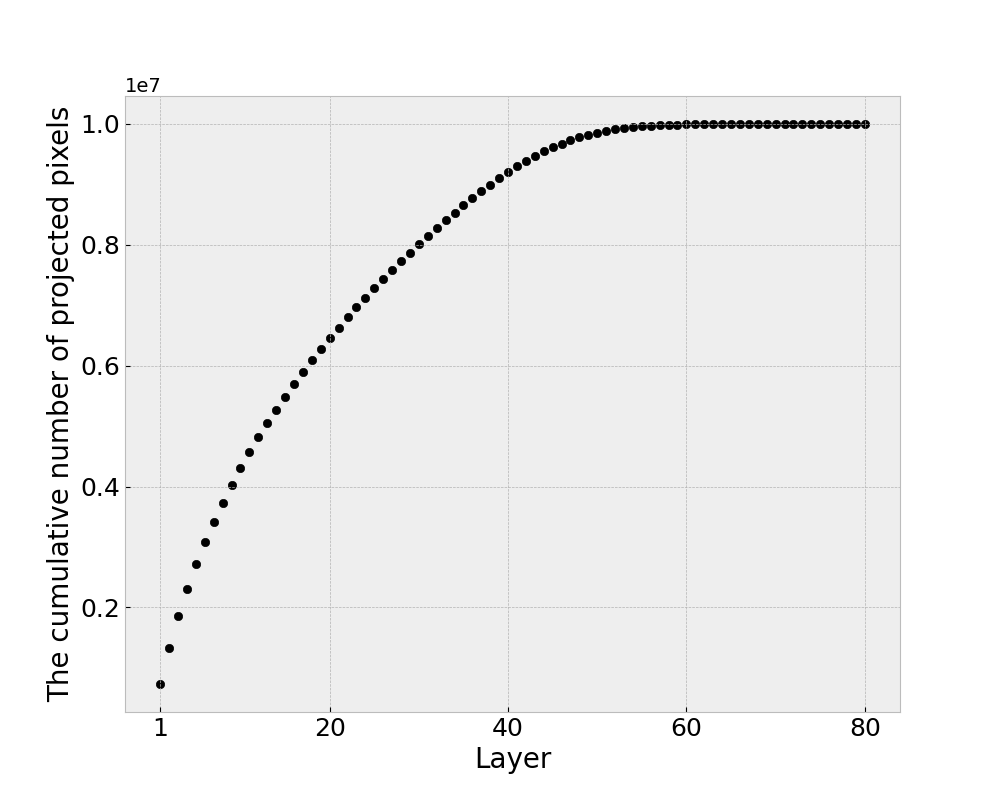
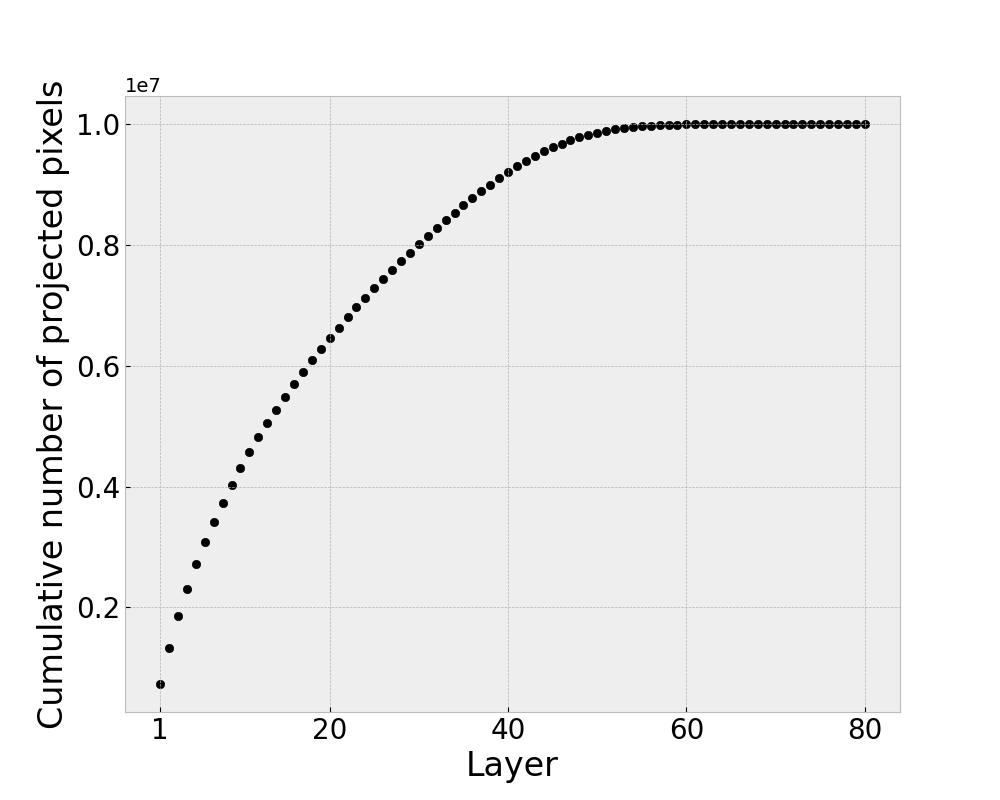
Update

diff --git a/src/py/projected_pixels/create_figure.py b/src/py/projected_pixels/create_figure.py
@@ -39,15 +39,14 @@ print( "The sum of projected pixels: {} (pixels)".format( nPixels_sum ) )
 
 # Creat figure
 
-# plt.scatter( Layer, nPixels, color='black', marker="o" )
-# plt.ylabel( 'Number of projected pixels', fontsize=20 )
+plt.scatter( Layer, nPixels, color='black', marker="o" )
+plt.ylabel( 'Number of projected pixels', fontsize=24 )
+# plt.scatter( Layer, nPixels_cum, color='black', marker="o" )
+# plt.ylabel( 'Cumulative number of projected pixels', fontsize=24 )
 
-plt.scatter( Layer, nPixels_cum, color='black', marker="o" )
-plt.ylabel( 'The cumulative number of projected pixels', fontsize=20 )
-
-plt.xlabel( 'Layer', fontsize=20 )
-plt.xticks( [1, 20, 40, 60, 80], fontsize=18 )
-plt.yticks( fontsize=18 )
+plt.xlabel( 'Layer', fontsize=24 )
+plt.xticks( [1, 20, 40, 60, 80], fontsize=20 )
+plt.yticks( fontsize=20 )
 
 ax = plt.gca()
 ax.ticklabel_format( style="sci",  axis="y",scilimits=(0,0) )
